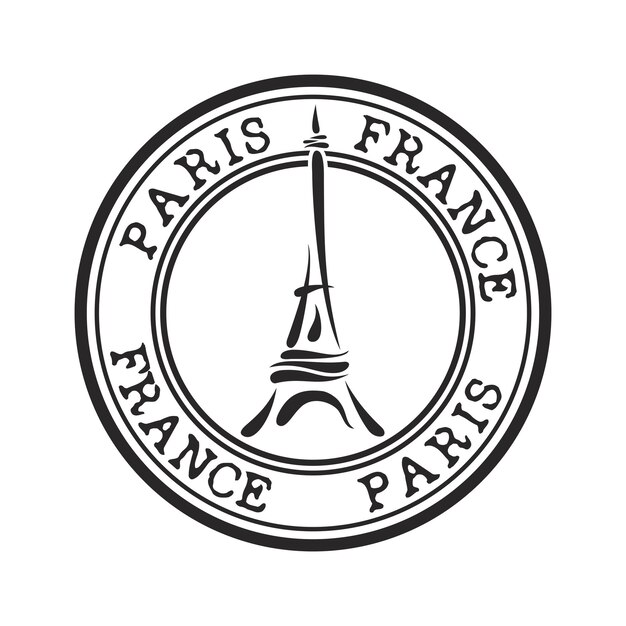
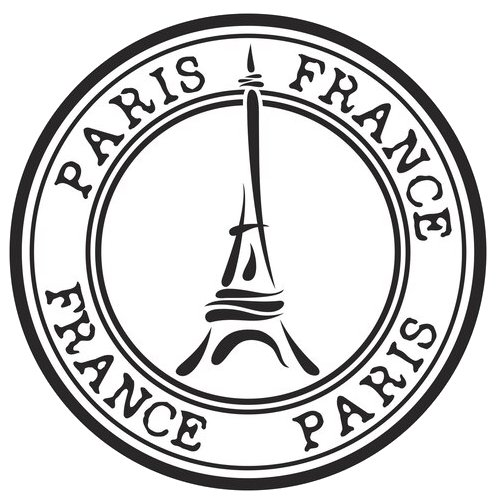
popular about done

diff --git a/src/Pages/About/BarChart/BarChart.jsx b/src/Pages/About/BarChart/BarChart.jsx
@@ -8,19 +8,21 @@ const BarChart = () => {
 
             <div className="card-container">
                 <div className="card">
-                    <img src="https://i.postimg.cc/4yrf3mKj/paris-stamp.jpg" alt="Image 1" className="rotated-st rotate-left" />
+                    <img src="https://i.postimg.cc/KvVSQptZ/paris-stamp-removebg-preview.png" alt="Image 1" className="rotated-st rotate-left" />
                 </div>
                 <div className="card">
-                    <img src="https://img.freepik.com/free-photo/happy-couple-having-wine-with-view-eiffel-tower_181624-33226.jpg?size=626&ext=jpg&ga=GA1.1.1965103633.1697962610&semt=sph" alt="Image 2" className="rotated-nd rotate-center" />
+                    <img src="https://i.postimg.cc/T2DDtcYj/woman-relaxing-with-her-feet-edge-boat-travel-concept-with-seagulls-130111-7385.jpg" alt="Image 2" className="rotated-nd rotate-center" />
                 </div>
                 <div className="card">
-                    <img src="https://img.freepik.com/free-photo/happy-couple-having-wine-with-view-eiffel-tower_181624-33226.jpg?size=626&ext=jpg&ga=GA1.1.1965103633.1697962610&semt=sph" alt="Image 3" className="rotated-rd rotate-right" />
+                    <img src="https://i.postimg.cc/7ZtYnLhR/vertical-outdoor-shot-cheerful-female-makes-professional-photos-sits-rocks-near-mountain-river.jpg" alt="Image 3" className="rotated-rd rotate-right" />
                 </div>
             </div>
 
             <div className='bar-div'>
+                <h1 className='text-5xl font-bold'>Our Popular Tour</h1>
+                <p className='text-xl ms-2 mt-2 text-gray-500'>Lorem ipsum dolor sit amet consectetur adipisicing elit. Ab itaque facere repellat corrupti harum vel.hgjhgjhgjhgjhghj</p>
                 <div className='mt-5'>
-                    <div className='flex justify-between text-xl font-medium'>
+                    <div className='flex justify-between text-base font-bold'>
                         <h1>Country side</h1>
                         <h1>76%</h1>
                     </div>
@@ -28,7 +30,7 @@ const BarChart = () => {
                 </div>
 
                 <div className='mt-7'>
-                    <div className='flex justify-between text-xl font-medium '>
+                    <div className='flex justify-between text-base font-bold'>
                         <h1 className=''>Vineyard</h1>
                         <h1>92%</h1>
                     </div>
@@ -36,7 +38,7 @@ const BarChart = () => {
                 </div>
 
                 <div className='mt-7'>
-                    <div className='flex justify-between text-xl font-medium '>
+                    <div className='flex justify-between text-base font-bold'>
                         <h1 className=''>Wine Tasting</h1>
                         <h1>86%</h1>
                     </div>

diff --git a/src/Pages/About/BarChart/BarChart.css b/src/Pages/About/BarChart/BarChart.css
@@ -7,8 +7,9 @@
   .card-container {
     position: relative;
     display: flex;
-    justify-content: space-around;
+    justify-content: center;
     align-items: center;
+    margin: auto;
     height: 100vh; /* Adjust as needed */
     border: 1px solid red;
     width: 50%;
@@ -16,6 +17,11 @@
   
   .card {
     position: absolute;
+    height: 100vh;
+    justify-content: center;
+    align-items: center;
+    margin: auto;
+    
     /* width: 15rem; 
     height: 150px; */
     /* background-color: rgb(189, 233, 32);
@@ -23,29 +29,35 @@
   }
   
   .rotated-st {
-    width: 20rem;
+    margin-top: 2rem;
+    width: 15rem;
     height: 100%;
+  
   }
 
   .rotated-nd{
     width: 15rem;
+    height: 50vh;
     border: 15px solid cornsilk;
+    
   }
 
   .rotated-rd{
     width: 15rem;
+    height: 50vh;
     border: 12px solid cornsilk;
+    
   }
   
   .rotate-left {
-    transform: rotate(-18deg);
+    transform: rotate(5deg);
     margin-bottom: 22rem;
     margin-left: 15rem;
   }
 
   .rotate-center{
     transform: rotate(-28deg);
-    margin-right: 7rem;
+    margin-right: 2rem;
     /* margin-bottom: 2rem; */
   }
   
